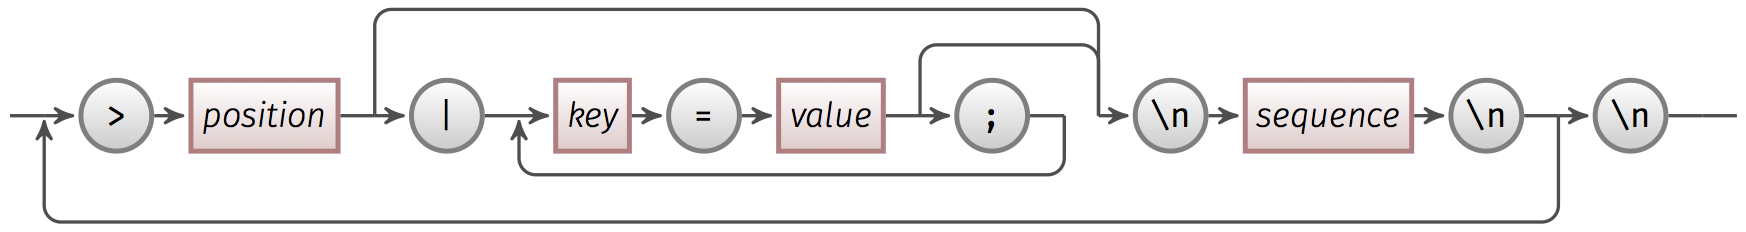
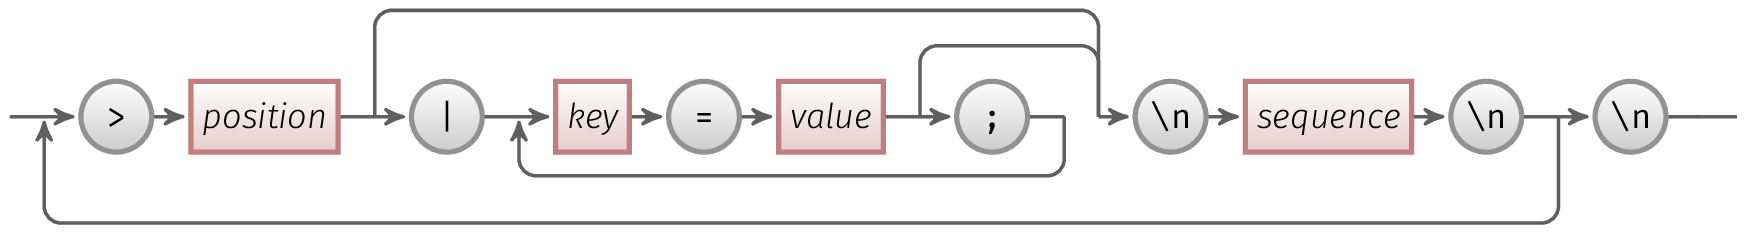
Use arara to create png outputs

diff --git a/doc/blocked-fasta-files.tex b/doc/blocked-fasta-files.tex
@@ -1,4 +1,14 @@
-\documentclass[crop,tikz,border=2bp]{standalone}
+% !TEX TS-program = arara
+% arara: xelatex: { shell: yes }
+% arara: indent: { overwrite: yes }
+% arara: clean: {extensions: [aux, bak, bbl, bcf, blg, idx, ilg, ind, ist, log, nlo, nls, out, run.xml, synctex.gz,]}
+
+\documentclass[
+    convert,
+    outext=.png,
+    border=2bp,
+    tikz,
+]{standalone}
 
 \usepackage{fontspec}
 \defaultfontfeatures{Mapping=tex-text,Scale=MatchLowercase}
@@ -14,22 +24,22 @@
 \begin{document}
 
 \tikzset{
-    >=stealth', black!50, text=black, thick,
-    every new ->/.style       = {thick, shorten <=0pt, shorten >=1pt, color=black!70},
-    every new --/.style       = {thick, color=black!70},
-    graphs/every graph/.style = {edges=rounded corners},
-    skip loop/.style          = {to path={-- ++(0,#1) -| (\tikztotarget)}},
-    hv path/.style            = {to path={-| (\tikztotarget)}},
-    vh path/.style            = {to path={|- (\tikztotarget)}},
-    nonterminal/.style={
+>=stealth', black!50, text=black, thick,
+every new ->/.style       = {thick, shorten <=0pt, shorten >=1pt, color=black!70},
+every new --/.style       = {thick, color=black!70},
+graphs/every graph/.style = {edges=rounded corners},
+skip loop/.style          = {to path={-- ++(0,#1) -| (\tikztotarget)}},
+hv path/.style            = {to path={-| (\tikztotarget)}},
+vh path/.style            = {to path={|- (\tikztotarget)}},
+nonterminal/.style={
         rectangle, minimum size=6mm, very thick, draw=red!50!black!50,
         top color=white, bottom color=red!50!black!20,
         font=\itshape, text height=1.5ex,text depth=.25ex},
-    terminal/.style={
+terminal/.style={
         rounded rectangle, minimum size=6mm, very thick, draw=black!50,
         top color=white, bottom color=black!20,
         font=\ttfamily, text height=1.5ex, text depth=.25ex},
-    shape = coordinate
+shape = coordinate
 }
 
 %>S288c.I(+):13267-13287|species=S288c
@@ -42,33 +52,37 @@
 %TCATCAGTTGGCAAACCGTTA
 
 \begin{tikzpicture}
-    \graph[grow right sep, branch down=7mm, simple]{
-        / --
-        p1 ->
-        greater_than[as={>}, terminal] ->
-        position [nonterminal] --
-        p2 ->
-        vertical_bar[as={|}, terminal] --
-        p3 ->
-        key [nonterminal] ->
-        equals[as={=}, terminal] ->
-        value [nonterminal] --
-        p4 ->
-        semicolon[as={;}, terminal] --
-        p5 -!-
-        p6 ->
-        header_new_line[as={\string\n}, terminal] ->
-        sequence [nonterminal] ->
-        sequence_new_line[as={\string\n}, terminal] --
-        p7 ->
-        block_new_line[as={\string\n}, terminal] --
-        p8 --
-        / [coordinate];
+    \graph[
+    grow right sep,
+    branch down=7mm,
+    simple,
+    ]{
+    / --
+    p1 ->
+    greater_than[as={>}, terminal] ->
+    position [nonterminal] --
+    p2 ->
+    vertical_bar[as={|}, terminal] --
+    p3 ->
+    key [nonterminal] ->
+    equals[as={=}, terminal] ->
+    value [nonterminal] --
+    p4 ->
+    semicolon[as={;}, terminal] --
+    p5 -!-
+    p6 ->
+    header_new_line[as={\string\n}, terminal] ->
+    sequence [nonterminal] ->
+    sequence_new_line[as={\string\n}, terminal] --
+    p7 ->
+    block_new_line[as={\string\n}, terminal] --
+    p8 --
+    / [coordinate];
 
-        p2 -- [skip loop=9mm] p6;
-        p4 -- [skip loop=6mm] p6;
-        p5 -> [skip loop=-5mm] p3;
-        p7 -> [skip loop=-9mm] p1;
+    p2 -- [skip loop=9mm] p6;
+    p4 -- [skip loop=6mm] p6;
+    p5 -> [skip loop=-5mm] p3;
+    p7 -> [skip loop=-9mm] p1;
     };
 \end{tikzpicture}
 
